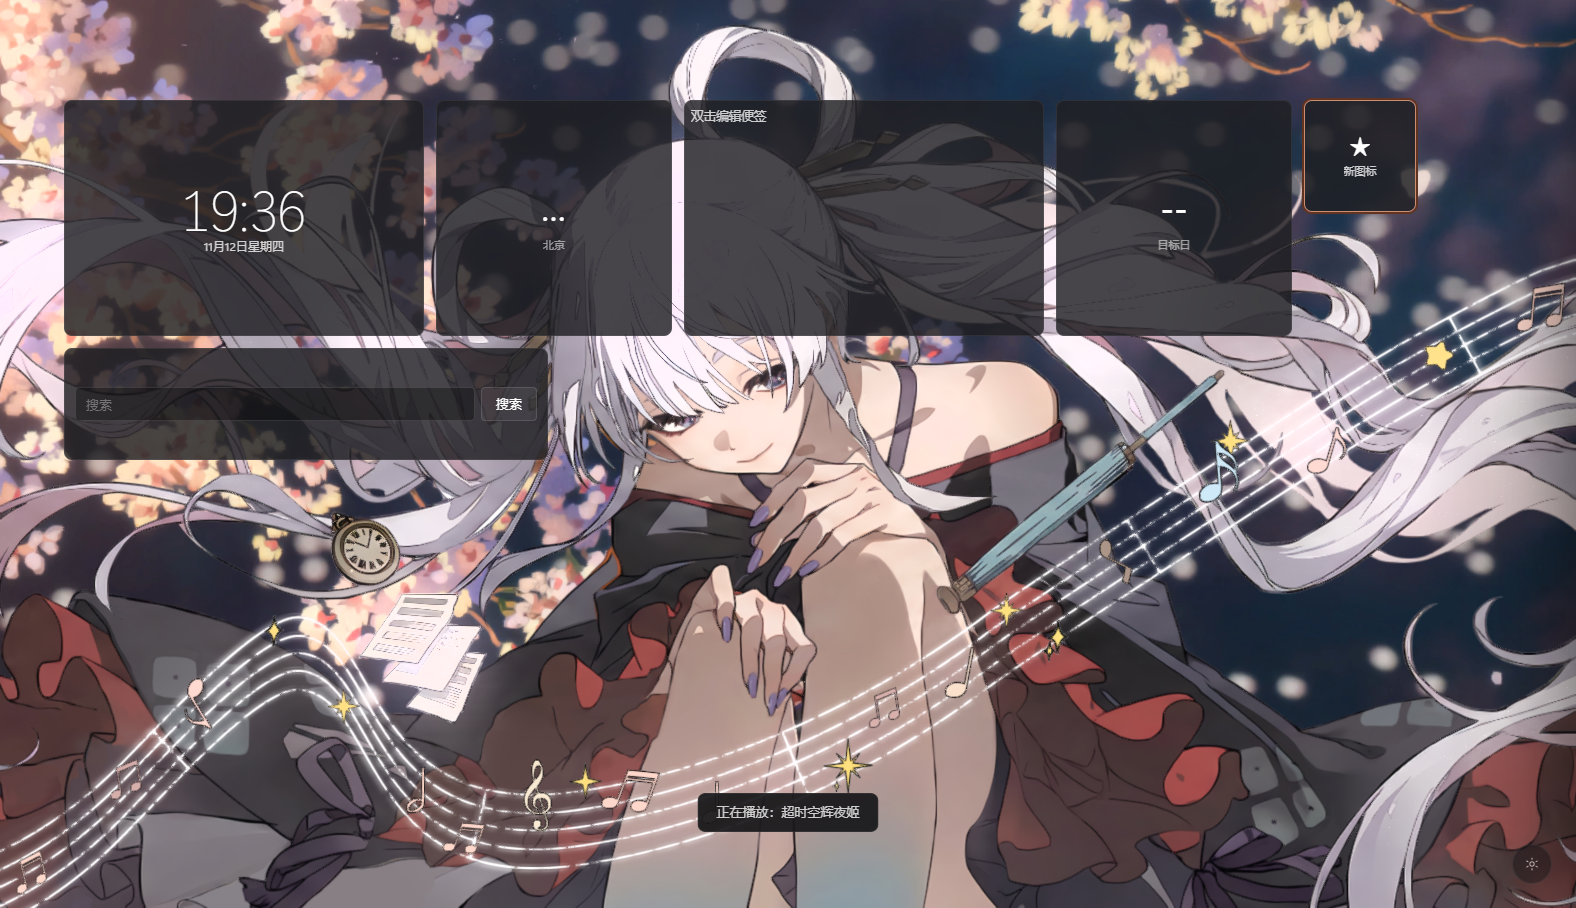
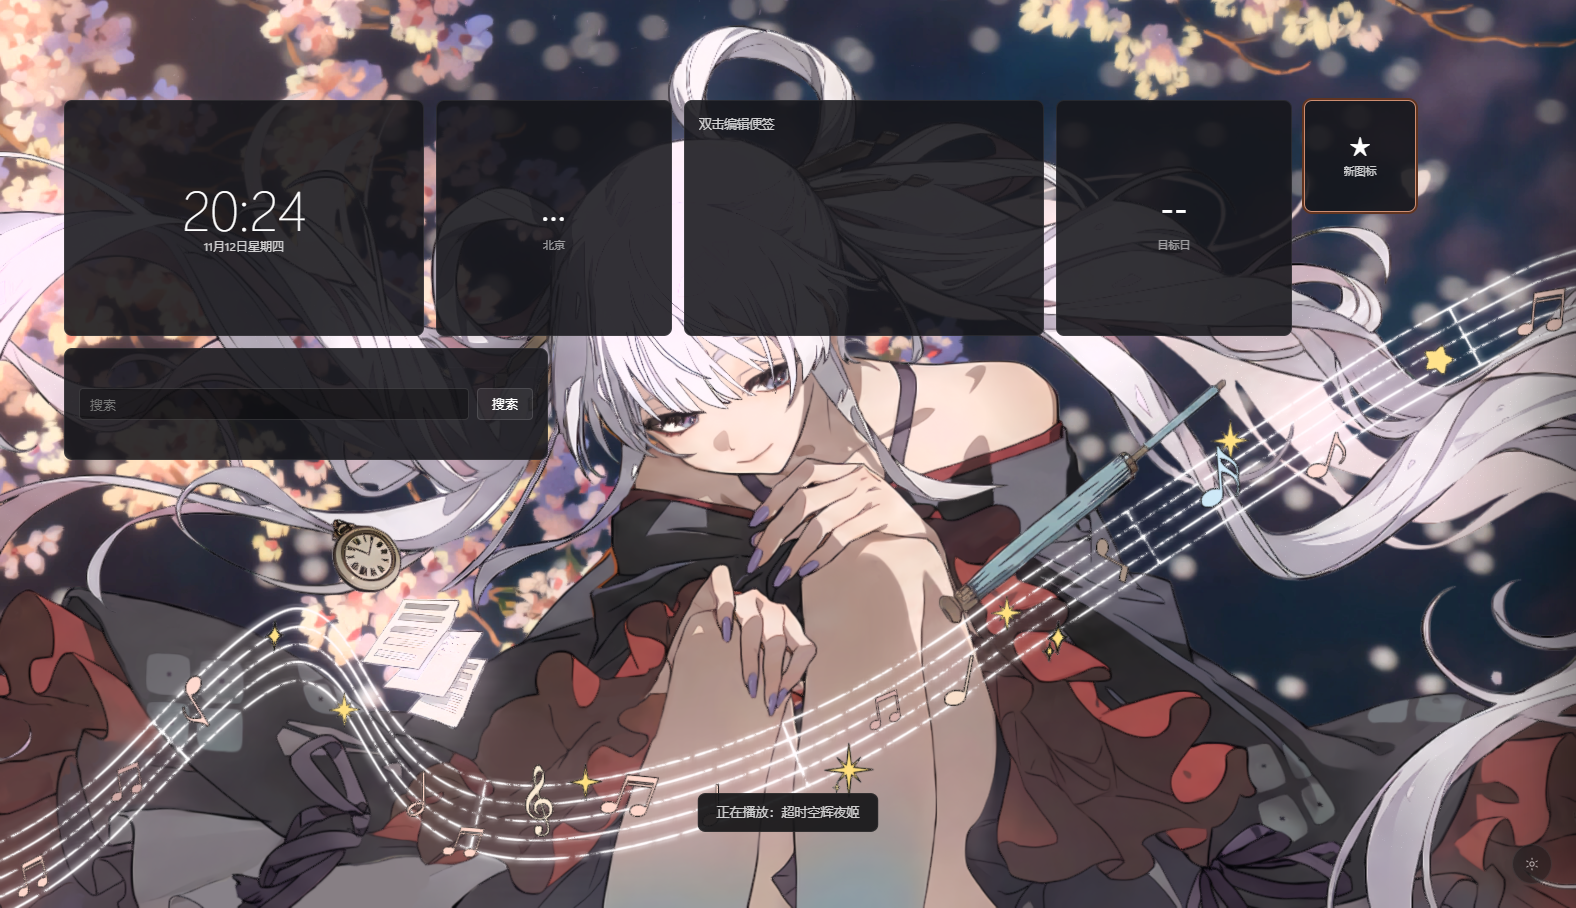
style: 统一控件高度与对齐、修正属性标签换行；更新截图

diff --git a/newtab.css b/newtab.css
@@ -11,6 +11,8 @@
   --accent: #60cdff;
   --accent-dim: rgba(96, 205, 255, .18);
   --radius-s: 4px;
+  --ctrl-h: 32px; /* 控件统一高度，与按钮同节奏 */
+  --col-ctrl: 156px; /* 设置行右侧控件列宽度统一 */
   --radius-m: 8px;
   --radius-l: 12px;
   --font: "Segoe UI Variable Text", "Segoe UI Variable", "Segoe UI", "Microsoft YaHei UI", system-ui, sans-serif;
@@ -177,7 +179,7 @@ body.bare #clock, body.bare #gear { opacity: 0; pointer-events: none; }
 /* 表单行：WinUI 设置页的 label / control 双列 */
 label {
   display: grid;
-  grid-template-columns: 1fr 156px;
+  grid-template-columns: 1fr var(--col-ctrl);
   align-items: center;
   gap: 12px;
   margin: 0;
@@ -193,11 +195,18 @@ label.check {
   gap: 10px;
   grid-template-columns: none;
 }
-label.check input { width: 18px; height: 18px; margin: 0; accent-color: var(--accent); }
+/* 复选框放到右侧控件列，和其它行的控件右对齐 */
+label.check input {
+  order: 2;
+  margin: 0 0 0 auto;
+  width: 18px;
+  height: 18px;
+  accent-color: var(--accent);
+}
 
-select, input[type="url"], input[type="password"], input[type="text"] {
+select, input[type="url"], input[type="password"], input[type="text"], input[type="number"] {
   width: 100%;
-  height: 30px;
+  height: var(--ctrl-h);
   padding: 0 30px 0 10px;
   border-radius: var(--radius-s);
   border: 1px solid var(--stroke-strong);
@@ -212,7 +221,13 @@ select, input[type="url"], input[type="password"], input[type="text"] {
   outline: none;
   transition: border-color .12s, background-color .12s;
 }
-input[type="url"], input[type="password"], input[type="text"] { background-image: none; padding-right: 10px; }
+input[type="url"], input[type="password"], input[type="text"], input[type="number"] {
+  background-image: none;
+  padding-right: 10px;
+}
+input[type="number"] { appearance: textfield; -moz-appearance: textfield; }
+input[type="number"]::-webkit-outer-spin-button,
+input[type="number"]::-webkit-inner-spin-button { appearance: none; margin: 0; }
 select:hover, input:hover { background-color: var(--card-hover); }
 select:focus, input:focus {
   border-color: var(--fg-2);
@@ -221,7 +236,7 @@ select:focus, input:focus {
 }
 
 button {
-  height: 32px;
+  height: var(--ctrl-h);
   padding: 0 14px;
   border-radius: var(--radius-s);
   border: 1px solid var(--stroke-strong);
@@ -263,7 +278,7 @@ button.link:hover { text-decoration: underline; background: none; }
   background: var(--card);
 }
 #roots .root span { flex: 1; overflow: hidden; text-overflow: ellipsis; white-space: nowrap; }
-#roots .root button { height: 26px; padding: 0 10px; font-size: 12px; }
+#roots .root button { height: 28px; padding: 0 10px; font-size: 12px; }
 
 /* 壁纸网格 */
 .grid { display: grid; grid-template-columns: repeat(auto-fill, minmax(98px, 1fr)); gap: 8px; }
@@ -306,15 +321,24 @@ button.link:hover { text-decoration: underline; background: none; }
 /* 壁纸选项 */
 .prop {
   display: grid;
-  grid-template-columns: 1fr 158px;
+  grid-template-columns: 1fr var(--col-ctrl);
   align-items: center;
   gap: 12px;
-  padding: 5px 8px;
+  padding: 7px 8px;
   border-radius: var(--radius-s);
 }
 .prop:hover { background: var(--card); }
 .prop[hidden] { display: none; }
-.prop-label { font-size: 12.5px; color: var(--fg-2); line-height: 1.35; }
+.prop-label {
+  display: block;
+  padding: 0;
+  grid-template-columns: none;
+  font-size: 13px;
+  color: var(--fg-2);
+  line-height: 1.35;
+  min-width: 0;
+}
+.prop-label:hover { background: none; }
 .prop-text, .prop-note {
   grid-column: 1 / -1;
   padding: 4px 8px;
@@ -329,12 +353,17 @@ button.link:hover { text-decoration: underline; background: none; }
 }
 .prop-note { font-size: 11.5px; color: var(--fg-3); margin: 0; line-height: 1.4; }
 
-.prop-slider { display: flex; align-items: center; gap: 8px; }
-.prop-slider input[type="range"] { flex: 1; accent-color: var(--accent); height: 20px; }
+.prop-slider { display: flex; align-items: center; justify-content: flex-end; gap: 8px; }
+.prop-slider input[type="range"] { flex: 1; accent-color: var(--accent); height: var(--ctrl-h); }
 .prop-readout { font-size: 11px; color: var(--fg-3); min-width: 34px; text-align: right; font-variant-numeric: tabular-nums; }
 
 /* WinUI 开关 */
-input[type="range"] { accent-color: var(--accent); width: 100%; }
+input[type="range"] {
+  width: 100%;
+  height: var(--ctrl-h);
+  margin: 0;
+  accent-color: var(--accent);
+}
 input.switch {
   appearance: none;
   width: 40px;
@@ -365,8 +394,8 @@ input.switch:hover::after { background: var(--fg); }
 
 input[type="color"] {
   width: 100%;
-  height: 30px;
-  padding: 2px;
+  height: var(--ctrl-h);
+  padding: 3px;
   border-radius: var(--radius-s);
   border: 1px solid var(--stroke-strong);
   background: rgba(255, 255, 255, .0605);
@@ -470,19 +499,19 @@ body.page-custom #clock { opacity: 0; pointer-events: none; }
   flex-direction: column;
   align-items: center;
   justify-content: center;
-  gap: 4px;
+  gap: 6px;
+  padding: 14px;
   border-radius: var(--radius-m);
   border: 1px solid var(--stroke);
-  background: rgba(30, 30, 34, .82);
+  background: rgba(22, 22, 26, .88);
   color: var(--fg);
   cursor: grab;
   user-select: none;
   touch-action: none;
   transition: background .12s, border-color .12s, box-shadow .12s;
   overflow: hidden;
-  padding: 6px;
 }
-.tile:hover { background: rgba(50, 50, 56, .62); border-color: var(--stroke-strong); }
+.tile:hover { background: rgba(44, 44, 50, .9); border-color: var(--stroke-strong); }
 .tile.dragging { cursor: grabbing; transition: none; z-index: 10; box-shadow: 0 12px 30px rgba(0,0,0,.45); }
 .tile.selected { border-color: var(--accent); box-shadow: 0 0 0 2px var(--accent-dim); }
 .tile .ti { line-height: 1; }
@@ -591,10 +620,10 @@ body.page-custom #clock { opacity: 0; pointer-events: none; }
 .wb-clock { gap: 2px; }
 .wb-time { font-family: "Segoe UI Variable Display", var(--font); font-size: clamp(28px, 4vw, 56px); font-weight: 300; line-height: 1; font-variant-numeric: tabular-nums; }
 .wb-date { font-size: 12px; color: var(--fg-2); }
-.wb-search { flex-direction: row; gap: 6px; padding: 0 4px; }
+.wb-search { flex-direction: row; gap: 8px; padding: 0; }
 .wb-search input {
   flex: 1;
-  height: 34px;
+  height: var(--ctrl-h);
   border-radius: var(--radius-s);
   border: 1px solid var(--stroke-strong);
   background: rgba(0, 0, 0, .35);
@@ -605,7 +634,7 @@ body.page-custom #clock { opacity: 0; pointer-events: none; }
   outline: none;
 }
 .wb-search input:focus { border-color: var(--accent); }
-.wb-search button { height: 34px; }
+.wb-search button { height: var(--ctrl-h); }
 .wb-note { align-items: flex-start; justify-content: flex-start; }
 .wb-text {
   font-size: 12.5px;
